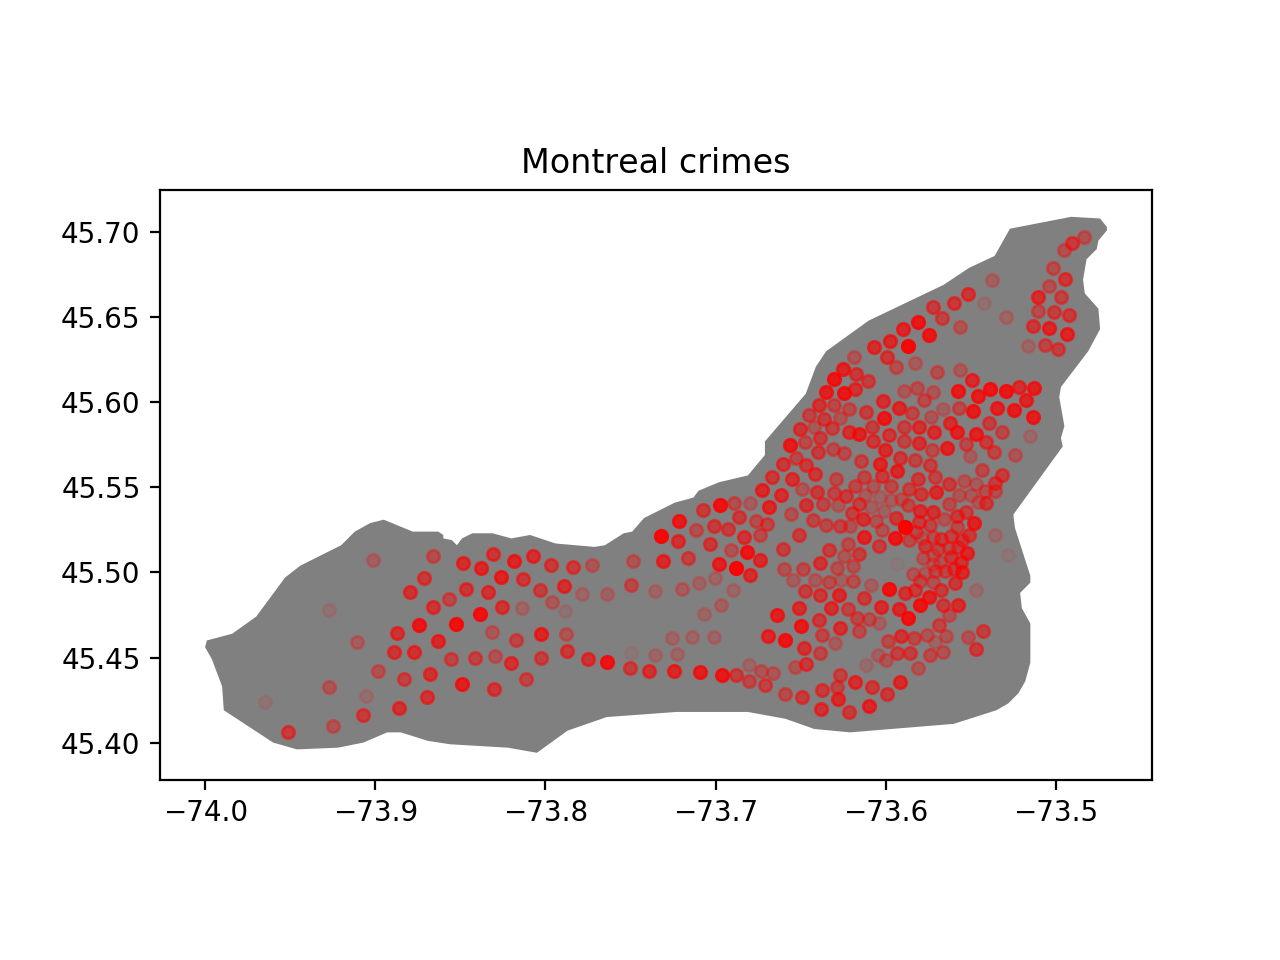
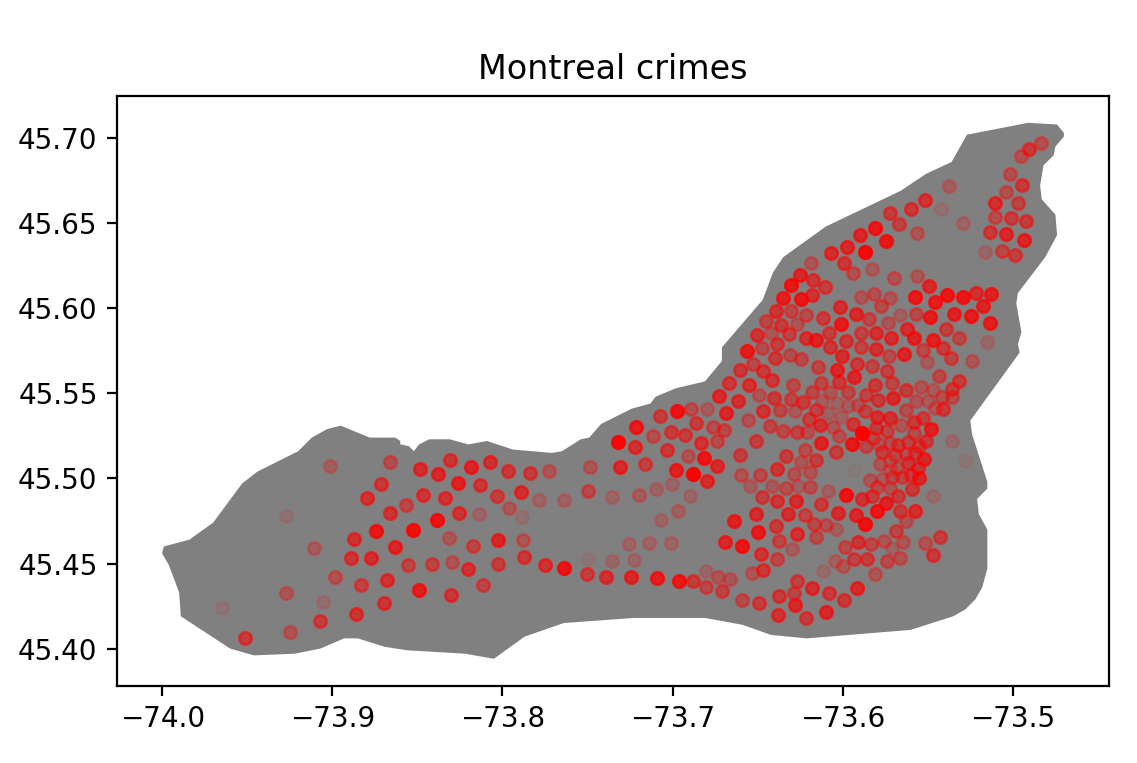
Updated README.md

Changed region(s): [[0.0, 0.0603, 0.985, 0.9646], [0.8927, 0.7837, 0.9235, 0.8139]]

diff --git a/README.md b/README.md
@@ -58,7 +58,20 @@ We use _PySpark_ for data preprocessing and extracting the new features. We also
 
 ## Results
 
-The final result of the K-means shows that most of the crimes, regardless of their categories, happen in the east side of the city. Figure **** shows the centroid of each cluster with respect to its points abundance. Furthermore, we were able to achieve 43% accuracy for predicting the crime category based on the location, date and time. We also computed other measurements such as precision and recall with one versus the other algorithm.
+The final result of the K-means shows that most of the crimes, regardless of their categories, happen in the east side of the city. Figure below shows the centroid of each cluster with respect to its points abundance. The more crimes happening in a cluster, the brighter the cluster is shown in the figure. 
+
+![Figure 1](plots/clusters.png "Crime Hotspots")
+
+Furthermore, we were able to achieve 43% accuracy for predicting the crime category based on the location, date and time. We also computed other measurements such as precision and recall with one versus the other algorithm.
+
+| Category | Precision | Recall | f1-score | Support |
+|:--------:|:---------:|:------:|:--------:|:-------:|
+|     1    |    0.46   |  0.63  |   0.53   |   8482  |
+|     2    |    0.44   |  0.28  |   0.35   |   3668  |
+|     3    |    0.43   |  0.47  |   0.45   |   6790  |
+|     4    |    0.38   |  0.30  |   0.34   |   5966  |
+|     5    |    0.50   |  0.09  |   0.15   |   1491  |
+|     6    |    0.00   |  0.00  |   0.00   |    24   |
 
 ## Discussion
 
